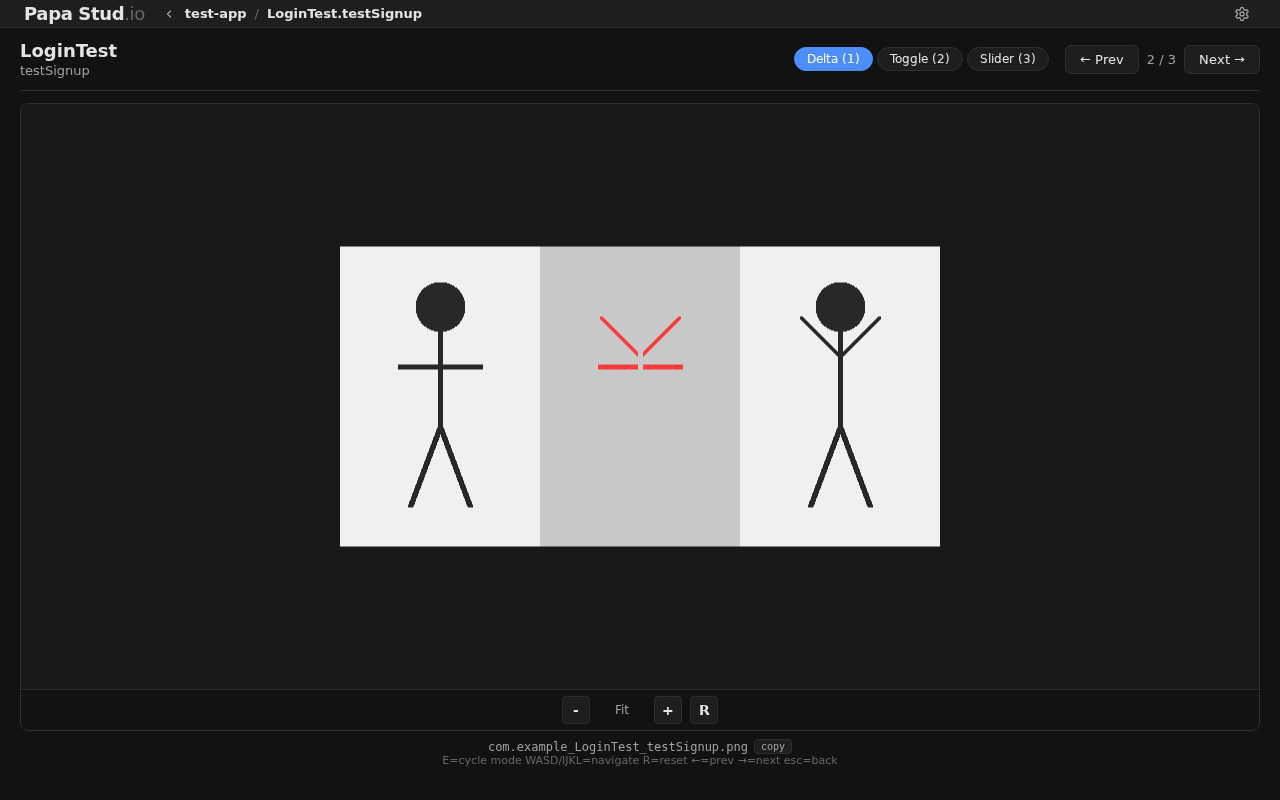
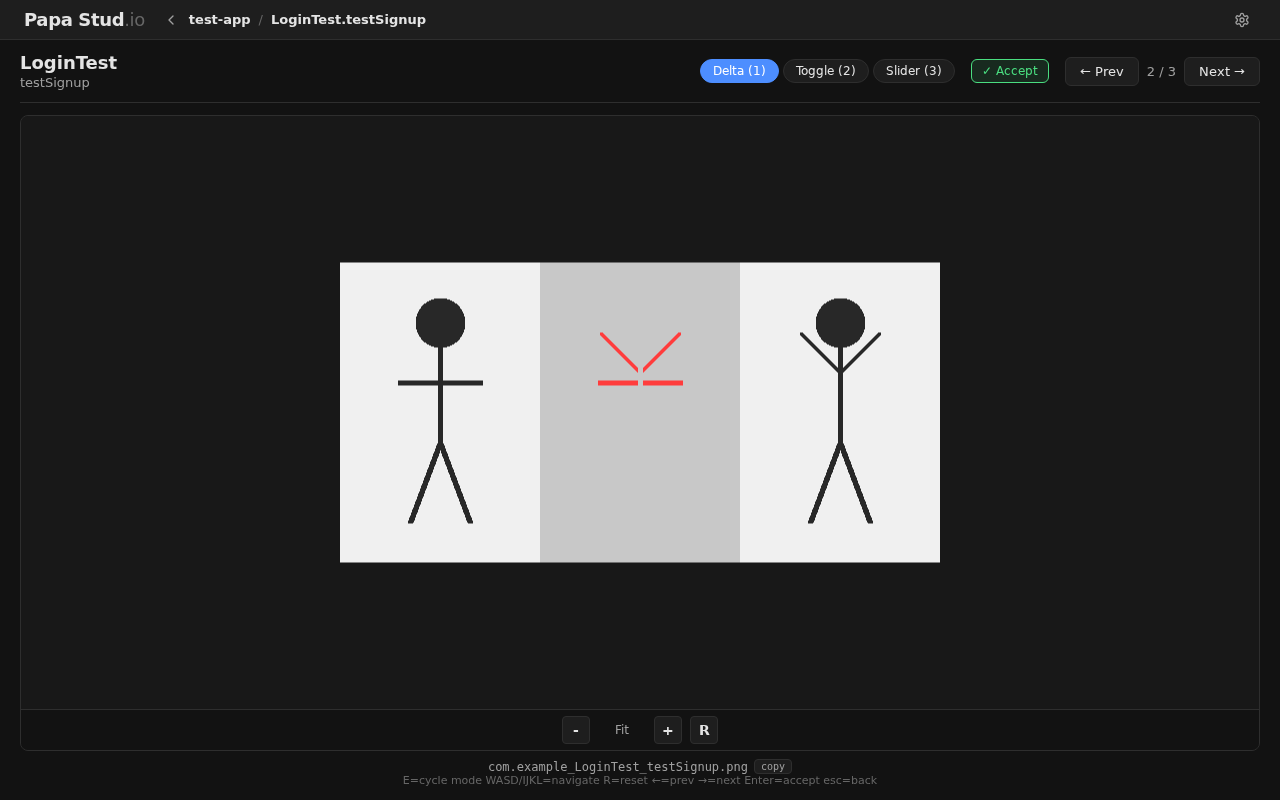
docs: mention accept baseline, refresh landing-page screenshots (#68)
README and docs/index.html features list now call out the Accept
Baseline feature. The docs screenshots (home/review/detail dark) are
synced from the current Playwright baselines so they show the new
Accept and Re-scan buttons.

diff --git a/docs/index.html b/docs/index.html
@@ -99,8 +99,8 @@ footer a { color: #a0a0a0; }
   <ul class="reveal">
     <li>Supports Paparazzi, Roborazzi, and Compose Screenshot Testing</li>
     <li>Delta, toggle, and slider comparison modes with zoom and pan</li>
+    <li>Accept baseline — copy the rendered image over the golden with one click, or bulk accept a whole scan</li>
     <li>Scans multi-module Gradle projects</li>
-    <li>Real-time file watching</li>
     <li>Video export of failures</li>
   </ul>
 </section>

diff --git a/CHANGES/2026-04-20_docs-accept-baseline.md b/CHANGES/2026-04-20_docs-accept-baseline.md
@@ -1,0 +1,32 @@
+# docs: mention accept baseline + refresh screenshots
+
+**Date:** 2026-04-20
+**Type:** Chore
+
+## Intent
+
+The Accept Baseline feature shipped in #66 isn't reflected anywhere user-facing. Update README features list and the Papa Stud.io landing page features list to call it out, and refresh the screenshot assets that power both so they show the new "Accept All" toolbar button, the "Accept" button in the detail header, and the renamed "Re-scan" (was "Watch"). Also drop the "Real-time file watching" bullet since Watch is currently replaced by manual Re-scan (chokidar hits EMFILE on large projects).
+
+### Prompts summary
+
+1. Update the README and the website to mention accept baseline
+
+## Changes
+
+### `README.md`
+- New feature bullet for Accept baseline.
+- Removed "Real-time file watching (re-scans on test re-run)" — the Watch button was replaced by a manual Re-scan button.
+
+### `docs/index.html`
+- Same changes to the landing page Features list.
+
+### `docs/assets/screenshots/{home,review-grid,detail}-dark.png`
+- Synced from the up-to-date Playwright baselines in `tests/screenshots/` so the landing page and the README header collage both show the current UI (Re-scan, Accept All, Accept).
+
+## Files modified
+
+| File | Change |
+|------|--------|
+| `README.md` | Accept baseline bullet, drop Watch bullet |
+| `docs/index.html` | Same |
+| `docs/assets/screenshots/*-dark.png` | Refreshed from tests/screenshots baselines |

diff --git a/README.md b/README.md
@@ -32,8 +32,8 @@ npm run electron # desktop app
 - Supports **Paparazzi**, **Roborazzi**, and **Compose Screenshot Testing** out of the box
 - Custom profile templates for any screenshot testing tool
 - Delta / Toggle / Slider comparison modes with zoom and pan
+- **Accept baseline** — copy the rendered image over the golden with one click (or bulk accept a whole scan)
 - Multi-module Gradle project scanning
-- Real-time file watching (re-scans on test re-run)
 - Video export of failures (requires ffmpeg)
 - Config import / export
 - Dark / light / system theme
